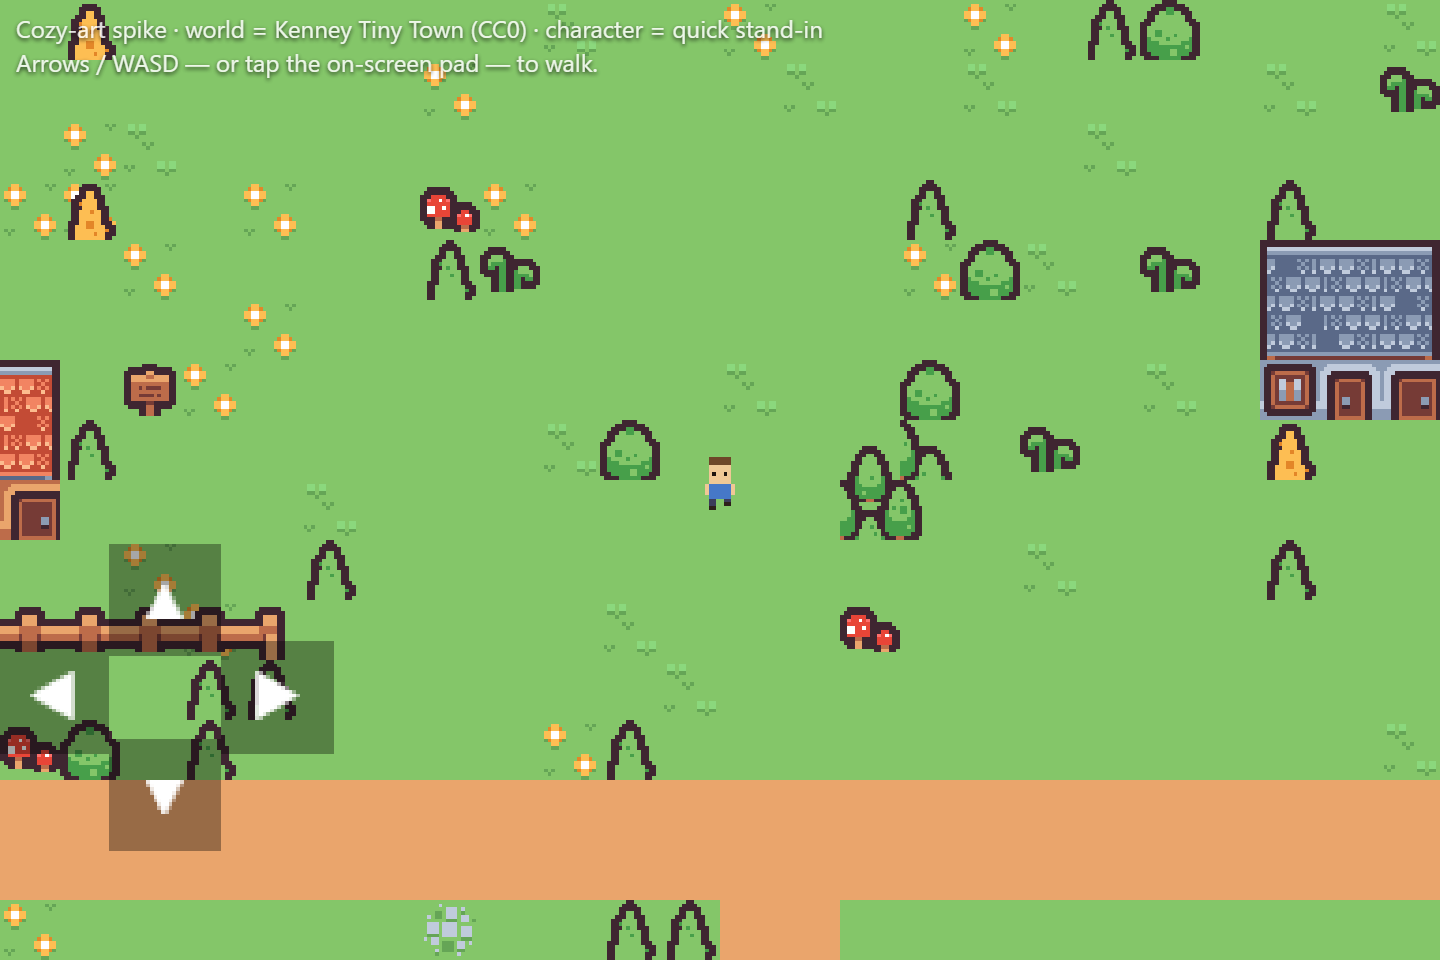
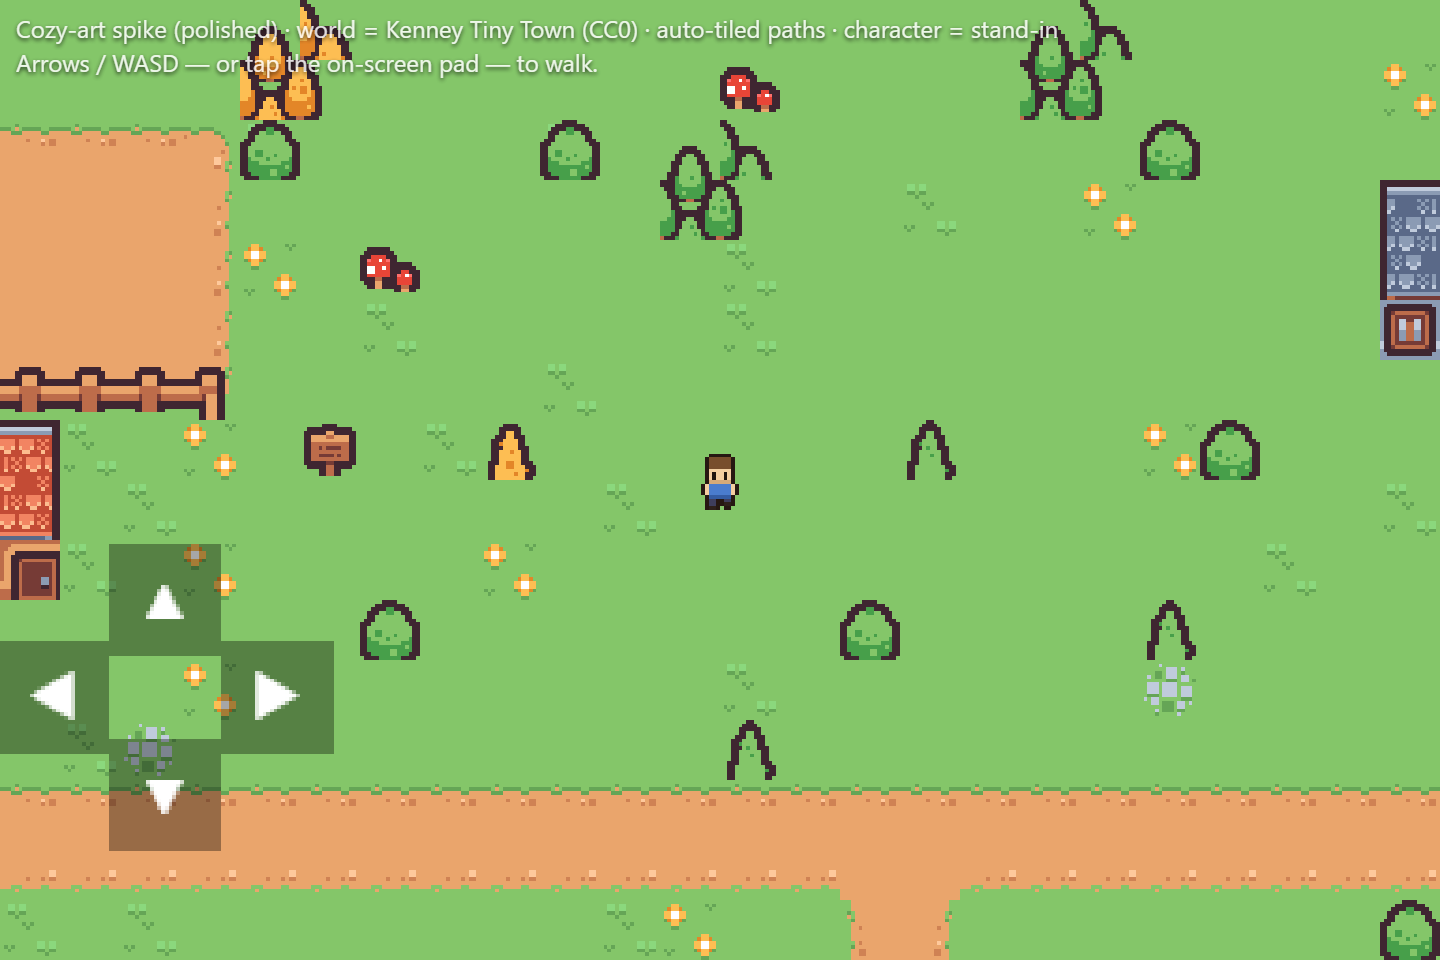
docs(spike-001): polish pass — auto-tiled paths, lusher trees, outlined character

diff --git a/.planning/spikes/001-cozy-art-pipeline/index.html b/.planning/spikes/001-cozy-art-pipeline/index.html
@@ -18,76 +18,105 @@
   </style>
 </head>
 <body>
-  <div id="cap">Cozy-art spike · world = Kenney Tiny Town (CC0) · character = quick stand-in<br/>Arrows / WASD — or tap the on-screen pad — to walk.</div>
+  <div id="cap">Cozy-art spike (polished) · world = Kenney Tiny Town (CC0) · auto-tiled paths · character = stand-in<br/>Arrows / WASD — or tap the on-screen pad — to walk.</div>
   <div id="game"></div>
   <script>
     const TILE = 16;
-    const W = 40, H = 28;            // map size in tiles
-    const SPEED = 70;
+    const W = 44, H = 32;
+    const SPEED = 72;
 
-    // ---- Tile indices mapped from Kenney Tiny Town tilemap_packed.png (12 cols) ----
+    // ---- Kenney Tiny Town indices (12-col packed sheet) ----
     const GRASS = [0, 1, 2];
-    const DIRT = 25;
+    // rounded dirt patch (auto-tile 3x3): TL TC TR / ML MC MR / BL BC BR
+    const DIRT = {
+      tl: 12, tc: 13, tr: 14, ml: 24, mc: 25, mr: 26, bl: 36, bc: 37, br: 38,
+    };
     const T = {
-      treeGreen: 4, treeOrange: 3, bush: 5, mushroom: 29, pebbles: 43, shrub: 17,
-      bigTree: [7, 8, 19, 20],                       // tl,tr,bl,br
-      redHouse:  [[52,53,54],[64,65,66],[84,85,86]], // roofTop, roofBot, wall
+      treeGreenSmall: 4, treeOrangeSmall: 3, bush: 5, mushroom: 29, pebbles: 43,
+      bigGreen: [7, 8, 19, 20],   // tl,tr,bl,br  (lush 2x2)
+      bigOrange: [10, 11, 22, 23],
+      redHouse:  [[52,53,54],[64,65,66],[84,85,86]],
       greyHouse: [[48,49,50],[60,61,62],[88,89,90]],
       fenceL: 44, fenceM: 45, fenceR: 46, sign: 83,
     };
 
     function buildMaps() {
+      // 1) dirt boolean grid: roads + a plaza/clearing
+      const dirt = Array.from({ length: H }, () => Array(W).fill(false));
+      const setDirtRect = (x0, y0, x1, y1) => {
+        for (let y = y0; y <= y1; y++) for (let x = x0; x <= x1; x++)
+          if (y >= 0 && y < H && x >= 0 && x < W) dirt[y][x] = true;
+      };
+      setDirtRect(0, 17, W - 1, 18);     // horizontal road (2 rows)
+      setDirtRect(22, 18, 23, H - 1);    // vertical branch (2 cols)
+      setDirtRect(5, 6, 11, 10);         // plaza / clearing near red house
+
+      // 2) auto-tile the dirt against grass (8-neighbour rounded mapping)
       const ground = [], deco = [];
+      const isD = (x, y) => x >= 0 && y >= 0 && x < W && y < H && dirt[y][x];
       for (let y = 0; y < H; y++) {
         const g = [], d = [];
         for (let x = 0; x < W; x++) {
-          const r = Math.random();
-          g.push(r < 0.08 ? GRASS[1] : r < 0.12 ? GRASS[2] : GRASS[0]);
+          if (!dirt[y][x]) {
+            const r = Math.random();
+            g.push(r < 0.07 ? GRASS[1] : r < 0.11 ? GRASS[2] : GRASS[0]);
+          } else {
+            const top = !isD(x, y - 1), bot = !isD(x, y + 1),
+                  lef = !isD(x - 1, y), rig = !isD(x + 1, y);
+            let t = DIRT.mc;
+            if (top && lef) t = DIRT.tl; else if (top && rig) t = DIRT.tr;
+            else if (bot && lef) t = DIRT.bl; else if (bot && rig) t = DIRT.br;
+            else if (top) t = DIRT.tc; else if (bot) t = DIRT.bc;
+            else if (lef) t = DIRT.ml; else if (rig) t = DIRT.mr;
+            g.push(t);
+          }
           d.push(-1);
         }
         ground.push(g); deco.push(d);
       }
-      // dirt paths: a horizontal road + a vertical branch
-      for (let x = 0; x < W; x++) { ground[15][x] = DIRT; ground[16][x] = DIRT; }
-      for (let y = 16; y < H; y++) { ground[y][20] = DIRT; ground[y][21] = DIRT; }
 
-      const occupied = (x, y) => deco[y][x] !== -1 || ground[y][x] === DIRT;
-
-      const placeHouse = (x, y, def) => {
+      const free = (x, y, w = 1, h = 1) => {
+        for (let yy = y; yy < y + h; yy++) for (let xx = x; xx < x + w; xx++) {
+          if (xx < 0 || yy < 0 || xx >= W || yy >= H) return false;
+          if (deco[yy][xx] !== -1 || dirt[yy][xx]) return false;
+        }
+        return true;
+      };
+      const house = (x, y, def) => {
+        if (!free(x, y, 3, 3)) return;
         for (let r = 0; r < 3; r++) for (let c = 0; c < 3; c++) deco[y + r][x + c] = def[r][c];
       };
-      const placeBigTree = (x, y) => {
-        deco[y][x] = T.bigTree[0]; deco[y][x + 1] = T.bigTree[1];
-        deco[y + 1][x] = T.bigTree[2]; deco[y + 1][x + 1] = T.bigTree[3];
+      const bigTree = (x, y, q) => {
+        if (!free(x, y, 2, 2)) return;
+        deco[y][x] = q[0]; deco[y][x + 1] = q[1]; deco[y + 1][x] = q[2]; deco[y + 1][x + 1] = q[3];
       };
 
-      placeHouse(6, 8, T.redHouse);
-      placeHouse(29, 6, T.greyHouse);
-      placeHouse(12, 19, T.greyHouse);
-      placeBigTree(22, 9);
-      placeBigTree(3, 20);
+      // 3) deliberate set pieces
+      house(6, 11, T.redHouse);
+      house(31, 7, T.greyHouse);
+      house(15, 23, T.greyHouse);
+      house(34, 22, T.redHouse);
+      // fence + sign by the red house
+      deco[10][6] = T.fenceL; for (let x = 7; x < 11; x++) deco[10][x] = T.fenceM; deco[10][11] = T.fenceR;
+      if (free(13, 11)) deco[11][13] = T.sign;
+      // leafy tree groves (lush)
+      [[2, 3], [3, 26], [38, 3], [40, 27], [25, 4], [9, 27], [19, 6], [28, 26]].forEach(([x, y]) => bigTree(x, y, T.bigGreen));
+      [[5, 27], [36, 14], [12, 4]].forEach(([x, y]) => bigTree(x, y, T.bigOrange));
 
-      // a fence run near the red house
-      deco[12][6] = T.fenceL;
-      for (let x = 7; x < 12; x++) deco[12][x] = T.fenceM;
-      deco[12][12] = T.fenceR;
-      deco[8][10] = T.sign;
-
-      // scatter trees / bushes / detail on free grass
+      // 4) scatter — favour lush bushes; small trees sparingly; light detail
       const scatter = (idx, n) => {
-        let placed = 0, guard = 0;
-        while (placed < n && guard++ < n * 40) {
+        let p = 0, guard = 0;
+        while (p < n && guard++ < n * 60) {
           const x = 1 + Math.floor(Math.random() * (W - 2));
           const y = 1 + Math.floor(Math.random() * (H - 2));
-          if (!occupied(x, y)) { deco[y][x] = idx; placed++; }
+          if (free(x, y)) { deco[y][x] = idx; p++; }
         }
       };
-      scatter(T.treeGreen, 26);
-      scatter(T.treeOrange, 10);
-      scatter(T.bush, 14);
-      scatter(T.mushroom, 8);
-      scatter(T.pebbles, 8);
-      scatter(T.shrub, 8);
+      scatter(T.bush, 30);
+      scatter(T.treeGreenSmall, 10);
+      scatter(T.treeOrangeSmall, 4);
+      scatter(T.mushroom, 6);
+      scatter(T.pebbles, 6);
 
       return { ground, deco };
     }
@@ -99,31 +128,24 @@
       }
       create() {
         const { ground, deco } = buildMaps();
-
         const gMap = this.make.tilemap({ data: ground, tileWidth: TILE, tileHeight: TILE });
-        const gSet = gMap.addTilesetImage('tt', 'tt', TILE, TILE, 0, 0);
-        gMap.createLayer(0, gSet, 0, 0);
-
+        gMap.createLayer(0, gMap.addTilesetImage('tt', 'tt', TILE, TILE, 0, 0), 0, 0);
         const dMap = this.make.tilemap({ data: deco, tileWidth: TILE, tileHeight: TILE });
-        const dSet = dMap.addTilesetImage('tt', 'tt', TILE, TILE, 0, 0);
-        const dLayer = dMap.createLayer(0, dSet, 0, 0);
+        const dLayer = dMap.createLayer(0, dMap.addTilesetImage('tt', 'tt', TILE, TILE, 0, 0), 0, 0);
         dLayer.setCollisionByExclusion([-1]);
 
-        // animations
         const mk = (key, s, e) => this.anims.create({
-          key, frames: this.anims.generateFrameNumbers('player', { start: s, end: e }),
-          frameRate: 6, repeat: -1,
+          key, frames: this.anims.generateFrameNumbers('player', { start: s, end: e }), frameRate: 6, repeat: -1,
         });
         mk('down', 0, 1); mk('up', 2, 3); mk('left', 4, 5); mk('right', 6, 7);
 
-        this.player = this.physics.add.sprite(20 * TILE, 10 * TILE, 'player', 0);
-        this.player.body.setSize(8, 6).setOffset(4, 10); // feet-ish hitbox
+        this.player = this.physics.add.sprite(20 * TILE, 12 * TILE, 'player', 0);
+        this.player.body.setSize(8, 6).setOffset(4, 10);
         this.physics.add.collider(this.player, dLayer);
 
         const worldW = W * TILE, worldH = H * TILE;
         this.physics.world.setBounds(0, 0, worldW, worldH);
         this.player.setCollideWorldBounds(true);
-
         const cam = this.cameras.main;
         cam.setBounds(0, 0, worldW, worldH);
         cam.startFollow(this.player, true, 0.15, 0.15);
@@ -134,42 +156,29 @@
         this.buildPad();
         this.facing = 'down';
       }
-
       buildPad() {
-        // simple on-screen d-pad fixed to the camera (mobile)
         const mkBtn = (x, y, label, dx, dy) => {
-          const b = this.add.rectangle(x, y, 30, 30, 0x000000, 0.35)
-            .setScrollFactor(0).setDepth(100).setInteractive();
-          this.add.text(x, y, label, { fontSize: '16px', color: '#fff' })
-            .setOrigin(0.5).setScrollFactor(0).setDepth(101);
+          const b = this.add.rectangle(x, y, 30, 30, 0x000000, 0.35).setScrollFactor(0).setDepth(100).setInteractive();
+          this.add.text(x, y, label, { fontSize: '16px', color: '#fff' }).setOrigin(0.5).setScrollFactor(0).setDepth(101);
           b.on('pointerdown', () => { this.touch.x = dx; this.touch.y = dy; });
-          const clr = () => {
-            if (dx) this.touch.x = 0;
-            if (dy) this.touch.y = 0;
-          };
+          const clr = () => { if (dx) this.touch.x = 0; if (dy) this.touch.y = 0; };
           b.on('pointerup', clr); b.on('pointerout', clr);
         };
         const bx = 44, by = this.scale.height - 70;
-        mkBtn(bx, by - 26, '▲', 0, -1);
-        mkBtn(bx, by + 26, '▼', 0, 1);
-        mkBtn(bx - 30, by, '◀', -1, 0);
-        mkBtn(bx + 30, by, '▶', 1, 0);
+        mkBtn(bx, by - 26, '▲', 0, -1); mkBtn(bx, by + 26, '▼', 0, 1);
+        mkBtn(bx - 30, by, '◀', -1, 0); mkBtn(bx + 30, by, '▶', 1, 0);
       }
-
       update() {
         const k = this.keys;
         let vx = (k.A.isDown || k.LEFT.isDown ? -1 : 0) + (k.D.isDown || k.RIGHT.isDown ? 1 : 0);
         let vy = (k.W.isDown || k.UP.isDown ? -1 : 0) + (k.S.isDown || k.DOWN.isDown ? 1 : 0);
         vx += this.touch.x; vy += this.touch.y;
         vx = Phaser.Math.Clamp(vx, -1, 1); vy = Phaser.Math.Clamp(vy, -1, 1);
-
         const len = Math.hypot(vx, vy) || 1;
         this.player.setVelocity((vx / len) * SPEED, (vy / len) * SPEED);
-
         if (vx === 0 && vy === 0) {
           this.player.anims.stop();
-          const f = { down: 0, up: 2, left: 4, right: 6 }[this.facing];
-          this.player.setFrame(f);
+          this.player.setFrame({ down: 0, up: 2, left: 4, right: 6 }[this.facing]);
         } else {
           if (Math.abs(vx) > Math.abs(vy)) this.facing = vx < 0 ? 'left' : 'right';
           else this.facing = vy < 0 ? 'up' : 'down';
@@ -179,13 +188,8 @@
     }
 
     new Phaser.Game({
-      type: Phaser.AUTO,
-      parent: 'game',
-      width: 384, height: 256,
-      pixelArt: true,
-      antialias: false,
-      roundPixels: true,
-      backgroundColor: '#6abe57',
+      type: Phaser.AUTO, parent: 'game', width: 384, height: 256,
+      pixelArt: true, antialias: false, roundPixels: true, backgroundColor: '#6abe57',
       scale: { mode: Phaser.Scale.FIT, autoCenter: Phaser.Scale.CENTER_BOTH },
       physics: { default: 'arcade', arcade: { gravity: { x: 0, y: 0 }, debug: false } },
       scene: [Town],

diff --git a/.planning/spikes/001-cozy-art-pipeline/README.md b/.planning/spikes/001-cozy-art-pipeline/README.md
@@ -79,4 +79,13 @@ A scrolling cozy town: lush grass with flower variants, a dirt crossroads, red- 
 - **Reuse fuller trees/bushes**; use small-tree tiles sparingly.
 - Pipeline = no engine changes: feed new tile indices into the existing `level-01.ts` MAP_DATA + register sprites in `Preloader.ts`. ContentRegistry/manifest pattern already supports this.
 
-**Aesthetic sign-off:** the *look* decision is the user's — see checkpoint.
+**Aesthetic sign-off:** user approved the look (2026-06-14).
+
+## Polish Iteration (2026-06-14)
+
+Applied the three recommended polishes in-spike to preview the target quality:
+1. **Path auto-tiling** — 8-neighbour rule maps dirt cells to Kenney's rounded 3×3 set (`12-14/24-26/36-38`); roads and a plaza now have rounded grass↔dirt edges + a T-junction instead of hard rectangles.
+2. **Lusher vegetation** — favour bushes (`5`) + big leafy trees (`7,8/19,20`, `10,11/22,23`); small saplings used sparingly.
+3. **Character** — regenerated with a dark Kenney-style outline + simple shading.
+
+Re-verified headless (0 console errors). Screenshots refreshed. These three techniques carry forward as Phase 2.5 implementation notes.
